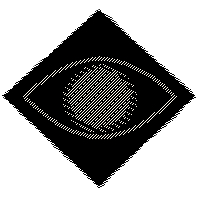
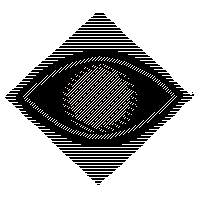
Downsized gif

Changed region(s): [[0.0, 0.03, 0.99, 0.96]]

diff --git a/page 4.5.html b/page 4.5.html
@@ -46,7 +46,7 @@
 <body>
 
 <div class="container">
-  <a href="page 5.html"><img src="images/enter.gif" alt="Eye see you!" style="width:50%;"></a>
+  <a href="page 5.html"><img src="images/entrance.gif" alt="Eye see you!" style="width:75%;"></a>
   <div class="bottom-left">It's dark.</div>
   <div class="top-left">It's dark.</div>
   <div class="top-right">It's dark.</div>
@@ -54,12 +54,12 @@
   <div class="centered">It's dark.</div>
 </div>
 <br>
-<h5 style="color: red; text-align:right"><i>It's dark. It's so dark, God—please, help me.</i></h5>
-<h5 style="color: red; text-align:center-right"><i>I can't see what's in front of me, below me, anything...</i></h5>
-<h5 style="color: red; text-align:right"><i>...I should have never come here at all.</i></h5>
+<h5 style="color: #bf0000; text-align:right"><i>It's dark. It's so dark, God—please, help me.</i></h5>
+<h5 style="color: #940000; text-align:center-right"><i>I can't see what's in front of me, below me, anything...</i></h5>
+<h5 style="color: #610606; text-align:right"><i>...I should have never come here at all.</i></h5>
 <br>
-<h3 style="color:black"><center>Do you think you are the first? The first to try and capture me, contain me, imprison me? Nobody, especially of your species, will ever be able to accomplish it. I cannot give you what you want.</center></h3>
-<h2 style="color:black"><center>Yet, you still seek to destroy. You yearn for what you cannot conquer.</h2></center>
+<h3 style="color:black"><center>Do you think you are the first? The first to try and capture me, control me, imprison me? Nobody, especially of your species, will ever accomplish it. I cannot give you what you want.</center></h3>
+<h2 style="color:black"><center>Yet, you continue yearning for what you cannot conquer. You are a species that seeks to destroy.</h2></center>
 <h1 style="color:black;"><center>When all of this is over, you will finally see where your ambitions have lead you: a dark, dark place. </center>
 </body>
 </html>

diff --git a/index.html b/index.html
@@ -1,7 +1,7 @@
 <!DOCTYPE html>
 <html>
 <head>
-	<title> Arrived: Target Location</title>
+	<title> Arrived: Target's Location, "A DARK PLACE"</title>
 	<link rel="icon" type="image/x-icon" href="images/icon.png">
 </head>
 <body style = "background-color: #000000">

diff --git a/page 2.html b/page 2.html
@@ -1,7 +1,7 @@
 <!DOCTYPE html>
 <html>
 <head>
-	<title> Goal: Fulfill Special Mission </title>
+	<title> Goal: Fulfill Mission </title>
 	<link rel="icon" type="image/x-icon" href="images/icon.png">
 </head>
 <body style = "background-color: #000000">
